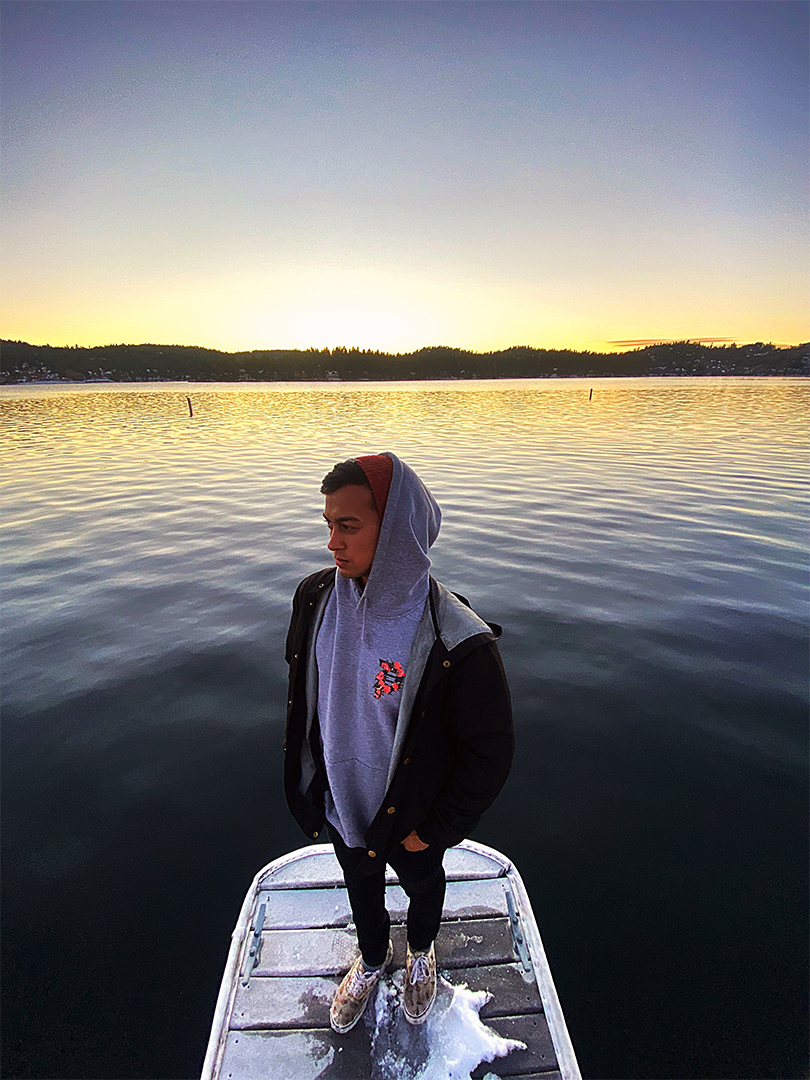
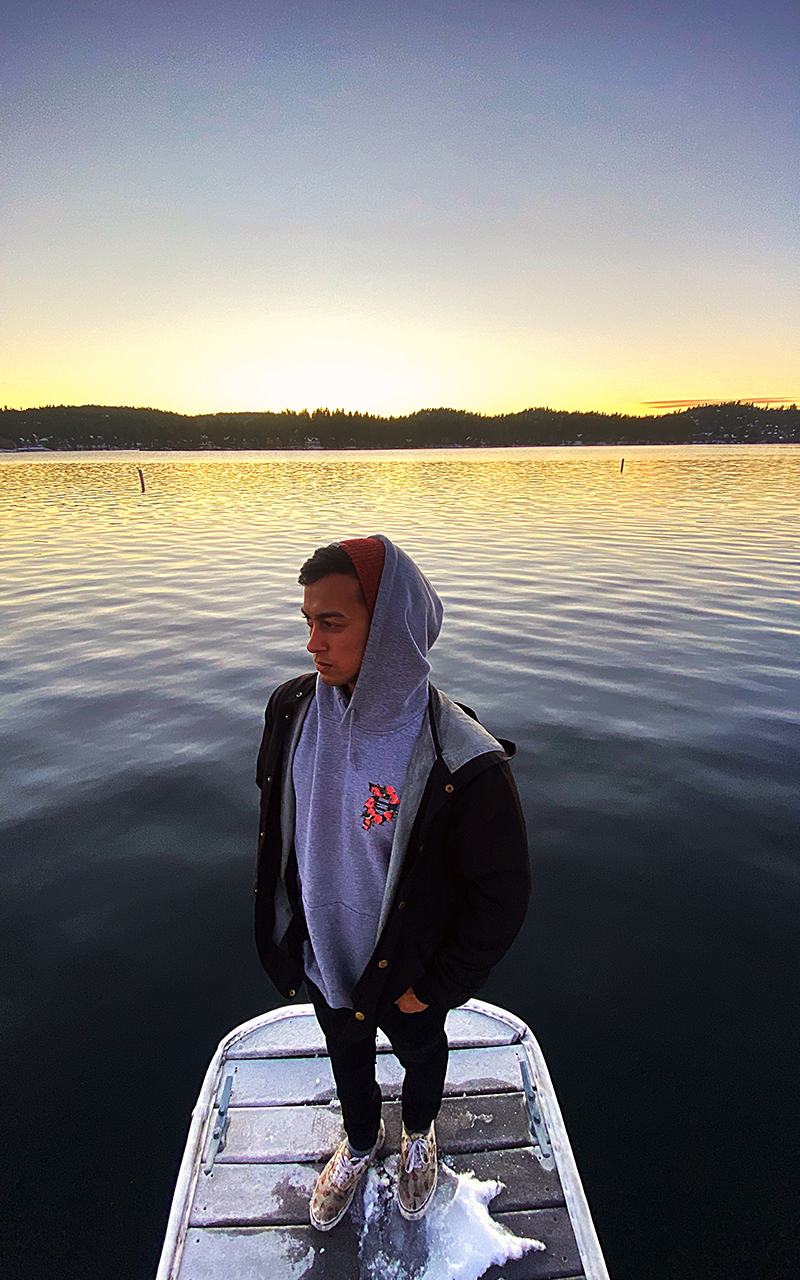
Started Contact Page

Changed region(s): [[0.0, 0.3056, 1.0, 1.0], [0.9062, 0.0611, 1.0, 0.2139], [0.0, 0.0611, 0.0625, 0.1833]]

diff --git a/src/components/body.js b/src/components/body.js
@@ -2,6 +2,7 @@ import React from "react"
 import Icons from "../components/icons"
 import BodyStyles from "./body.module.css"
 import pic from "../images/miles.jpg"
+import { Link } from "gatsby"
 
 const Body = () => (
   <div className={BodyStyles.container}>
@@ -9,7 +10,11 @@ const Body = () => (
       <div className={BodyStyles.text}>
         <h1>JORDAN MILES</h1>
         <h3>REALTOR AND PHOTOGRAPHER</h3>
-        <button className={BodyStyles.button}>BIZ INQUIRES</button>
+        
+        <Link to="/page-2">
+          <button className={BodyStyles.button}>BIZ INQUIRES</button>
+        </Link>
+        
         <Icons />
       </div>
     </div>

diff --git a/gatsby-config.js b/gatsby-config.js
@@ -1,7 +1,7 @@
 module.exports = {
   siteMetadata: {
-    title: `Gatsby Default Starter`,
-    description: `Kick off your next, great Gatsby project with this default starter. This barebones starter ships with the main Gatsby configuration files you might need.`,
+    title: `Jordan Miles - Orange County Realtor and Photographer`,
+    description: `Jordan Miles is an amaing realtor working in the Orange County area. `,
     author: `@gatsbyjs`,
   },
   plugins: [

diff --git a/src/components/body.module.css b/src/components/body.module.css
@@ -2,14 +2,14 @@
   display: flex;
   flex-direction: row;
   width: 100%;
-  height: auto;
+
 }
 
 .col {
   display: flex;
   flex-direction: column;
   flex-basis: 100%;
-  flex: 1;
+    flex: 1;
 }
 
 .text {
@@ -27,13 +27,11 @@
     "Lucida Sans Unicode", Geneva, Verdana, sans-serif;
   font-size: 1rem;
   padding: 15px;
+
 }
 
 .miles {
-  margin: auto;
-  width: 50%;
-  padding: 10px;
+  height: 100vh;
   text-align: center;
-  width: 50vh;
   margin: 0px;
 }

diff --git a/src/pages/page-2.js b/src/pages/page-2.js
@@ -6,9 +6,8 @@ import SEO from "../components/seo"
 
 const SecondPage = () => (
   <Layout>
-    <SEO title="Page two" />
-    <h1>Hi from the second page</h1>
-    <p>Welcome to page 2</p>
+    <SEO title="Contact Me" />
+    
     <Link to="/">Go back to the homepage</Link>
   </Layout>
 )

diff --git a/src/pages/index.js b/src/pages/index.js
@@ -7,7 +7,7 @@ import SEO from "../components/seo"
 
 const IndexPage = () => (
   <Layout>
-    <SEO title="Jordan Miles - Realtor and Photographer" />
+    <SEO title="Home Page" />
     <Body />
   </Layout>
 )
